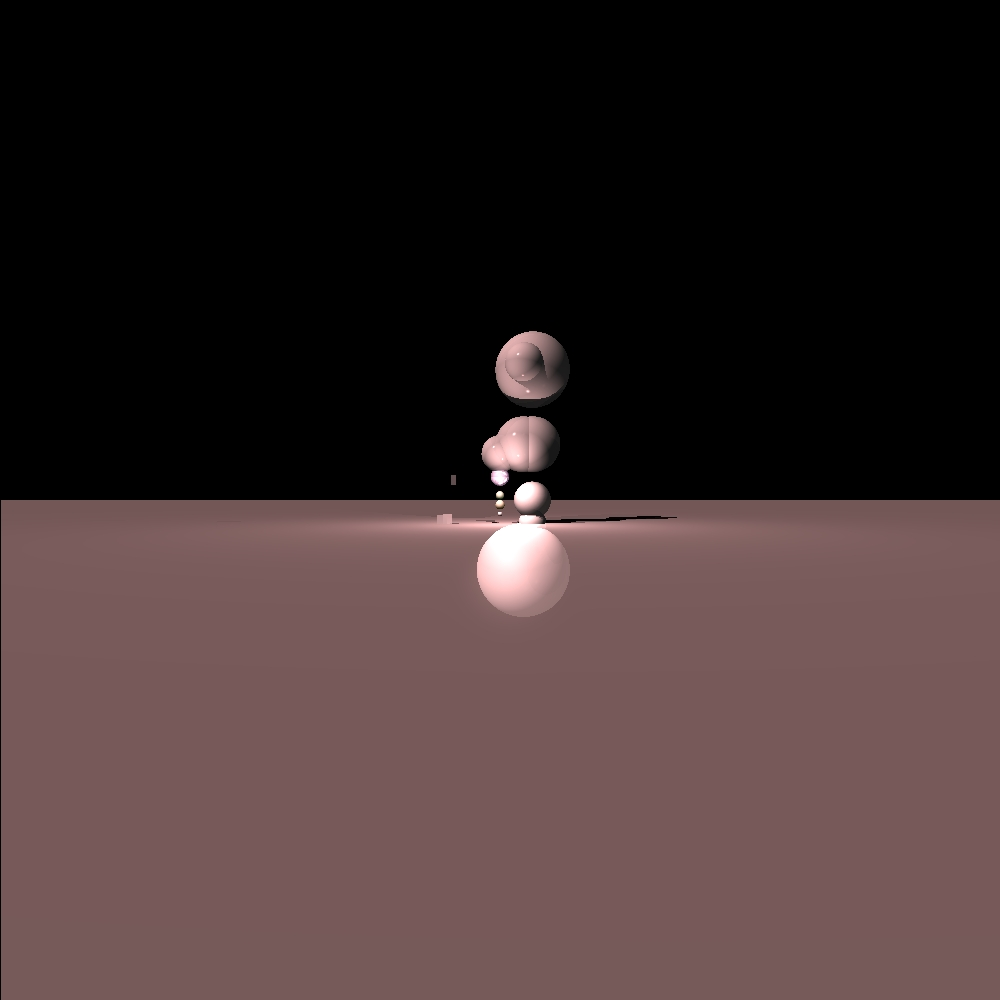
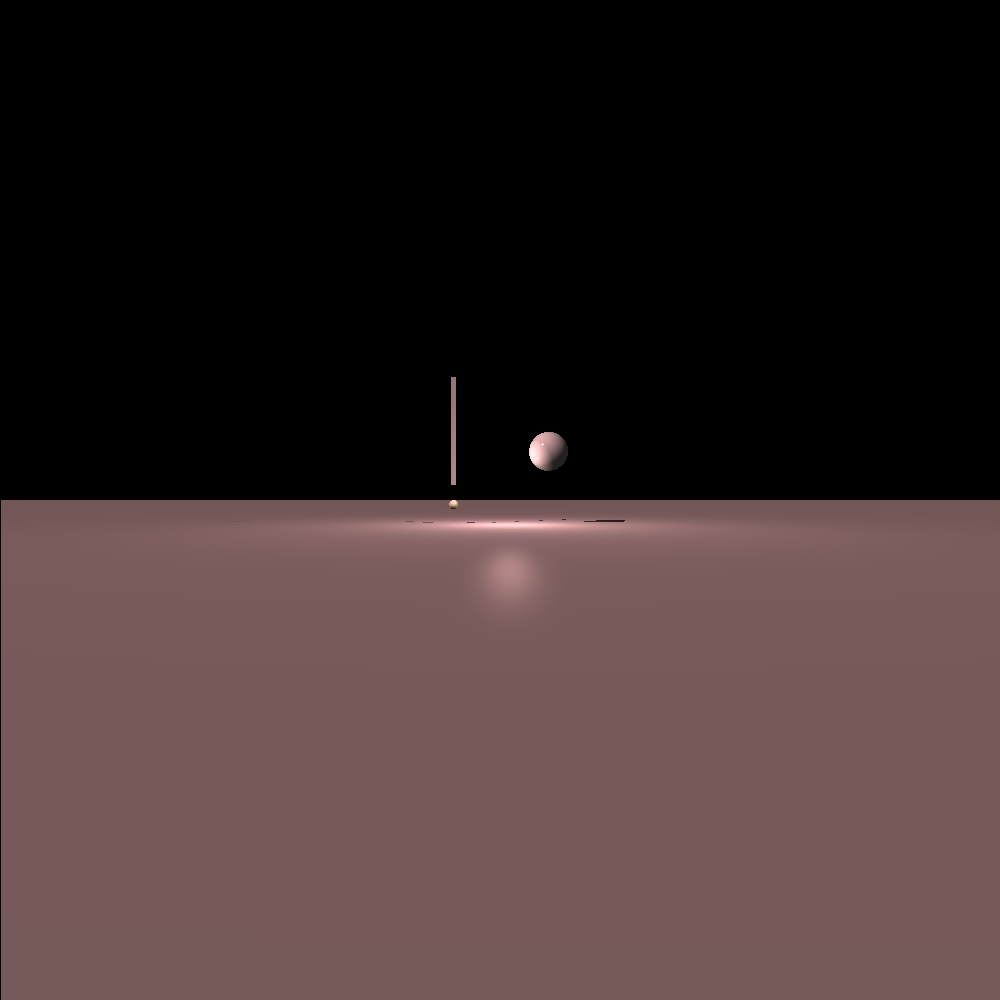
mini project 2 not completed

Changed region(s): [[0.434, 0.31, 0.651, 0.62]]

diff --git a/MavoProject/src/renderer/Render.java b/MavoProject/src/renderer/Render.java
@@ -152,7 +152,19 @@ public class Render {
 		                        (image.getNx(), image.getNy(), pixel.col, pixel.row,
 		                                scene.getDistance(), image.getHeight(), image.getWidth());
 		                //מחזירה את הנקודה הכי קרובה
+		                if( pixel.col== 999 && pixel.row == 999   ) {
+					 		//System.out.println("here ");
+		                	int val = 1;
+		                	System.out.println("threads" + _threads);
+					 	}				 	
+
 		                GeoPoint closestPoint = findClosestIntersection(ray);
+
+//		                if(closestPoint != null) {
+//		                	System.out.print(" pixel.col " + pixel.col);
+//						 	System.out.print(" pixel.row " + pixel.row);
+//						 	System.out.println(" ");
+//		                }
 		                //בודקים אם נמצאה נקודה צובעים בצבע המחושב ואם לא בצבע הרקע
 		                image.writePixel(pixel.col, pixel.row, closestPoint == null ? scene.getBackground().getColor() : calcColor(closestPoint, ray).getColor());
 
@@ -537,9 +549,13 @@ public class Render {
     private GeoPoint findClosestIntersection(Ray ray) {
     	//this is the original function before the boundry 
         //List<GeoPoint> points = scene.getGeometries().findIntersections(ray);
+    	
         List<GeoPoint> points = splitFindIntersection(ray);
+
         if (points == null)
             return null;
+	 	//System.out.print("points" + points.size());
+
         Point3D p0 = ray.get_POO();
         return pointClosestTo(points, p0);
     }
@@ -556,7 +572,7 @@ public class Render {
 	}
     
  // for saving the time of new list creation several times
- 	private List<GeoPoint> intersectionsBVH = new ArrayList<GeoPoint>();
+ 	private Geometries filteredBVHGeometries = new Geometries();
 
  	/**
  	 * travel around the geometries tree whether the ray is inside the box or not
@@ -566,17 +582,20 @@ public class Render {
  	 */
  	public void GeometriesBVH(Geometries geometries, Ray ray) {
  		if(ray == null) return;
- 		if (geometries.boundaryVolume().boundingIntersection(ray)) { //founded point with box
+ 		BoundaryVolume bm = geometries.boundaryVolume();
+ 		boolean hasPoints = bm.boundingIntersection(ray);
+ 		int amount = geometries.getShapes().size();
+ 		if (bm.boundingIntersection(ray) || bm == null) { //founded point with box
  			if (geometries.getAmount() == 1) {
- 				BoundaryVolume boundary = geometries.boundaryVolume();
- 				if (boundary.boundingIntersection(ray) || boundary == null)// if plane
- 					if (geometries.findIntersections(ray) != null)
- 						intersectionsBVH.addAll(geometries.findIntersections(ray));
+ 				BoundaryVolume boundary = geometries.getShapes().get(0).boundaryVolume();
+ 				if (boundary == null || boundary.boundingIntersection(ray))// if plane
+ 					filteredBVHGeometries.add(geometries);
+ 					//if (geometries.findIntersections(ray) != null)
+ 						//intersectionsBVH.addAll(geometries.findIntersections(ray));
  				return;
  			}
  			for (Intersectable geo : geometries.getShapes()) {
  				GeometriesBVH(new Geometries(geo), ray);
- 				return;
  			}
  		} else {
  			return;
@@ -593,10 +612,11 @@ public class Render {
 	 * @return list of geometry points
 	 */
 	public List<GeoPoint> splitFindIntersection(Ray ray) {
+		filteredBVHGeometries =  new Geometries();
 		Geometries geometries = scene.getGeometries();
 		if (_usingBoundaryVolume) {		
 			GeometriesBVH(geometries, ray);
-			return intersectionsBVH;
+			return filteredBVHGeometries.findIntersections(ray);
 		} else {
 			return geometries.findIntersections(ray);
 		}

diff --git a/MavoProject/src/unittests/MiniProject2.java b/MavoProject/src/unittests/MiniProject2.java
@@ -34,6 +34,17 @@ public class MiniProject2 {
 		scene.setBackground(Color.BLACK);
 		Plane plane = new Plane(new Color(0, 0, 0), new Material(0.5, 0.5, 300, 0.8, 0), new Point3D(0, 50, 60),
 				new Vector(0, 1, 0));
+		
+		Polygon chut1 = new Polygon(new Color(20, 20, 20), new Material(0.5, 0.5, 300, 0.2, 0), //
+				new Point3D(-100, -250, 20), new Point3D(-90, -250, 20), new Point3D(-90, -30, 30),
+				new Point3D(-100, -30, 30));
+		
+		Triangle t1=  new Triangle(Color.BLACK, new Material(0.8, 0.2, 300),
+                  new Point3D(-450, 150, 150), new Point3D(-150, 150, 150), new Point3D(-75, -75, 150));
+				Triangle t2 =   new Triangle(Color.BLACK, new Material(0.8, 0.2, 300),
+                  new Point3D(-550, 150, 150), new Point3D(-70, -70, 50), new Point3D(-75, -75, 150));
+		
+		
 		Sphere sphere = new Sphere(new Color(0, 0, 20), new Material(0.5, 0.5, 300, 0.2, 0.5), 20,
 				new Point3D(0, -50, 80));
 		Sphere sphere2 = new Sphere(new Color(0, 20, 0), new Material(0.5, 0.5, 300, 0.2, 0), 9,
@@ -73,9 +84,8 @@ public class MiniProject2 {
 		Triangle triangle1 = new Triangle(new Color(20, 20, 20), new Material(0.5, 0.5, 300, 0.2, 0),//
 				new Point3D(-100, -120, 80) ,new Point3D(0, -200, 80),
 				new Point3D(100, -100, 30));
-//		Polygon polygon1 = new Polygon (new Color(20, 20, 20), new Material(0.5, 0.5, 300, 0.2, 0),//
-//				new Point3D(-100, -50, 20) ,new Point3D(-90, -50, 20),
-//				new Point3D(-100, -30, 20), new Point3D(-90, -30, 20));
+		
+		
 		Polygon polygon1 = new Polygon(new Color(20, 20, 20), new Material(0.5, 0.5, 300, 0.2, 0), //
 				new Point3D(-100, -50, 20), new Point3D(-90, -50, 20), new Point3D(-90, -30, 30),
 				new Point3D(-100, -30, 30));
@@ -114,28 +124,43 @@ public class MiniProject2 {
 //		scene.addIntersectable(
 //				triangle1,geo1,geo2,geo3,geo4,geo5 ,plane);
 
+		
+		Geometries geo32 =new Geometries(plane,chut1);
+				
+		Geometries geo33 = new Geometries(/*t1,t2,*/sphere26, sphere18);
 		scene.addIntersectable(
-				plane,
-				sphere,
-				sphere2,
-				sphere3,
-				sphere4,
-				sphere5 ,
-				sphere6,
-				sphere7,
-				sphere9,
-				sphere10,
-				sphere11,
-				sphere12,
-				sphere13,
-//				sphere14,
-//				sphere15,
-				sphere16,
-				polygon1, polygon2,polygon3
+				geo33,
+				plane, geo32//,t1,t2
+//				sphere,
+//				sphere2,
+//				sphere3,
+//				sphere4,
+//				sphere5 ,
+//				sphere6,
+//				sphere7,
+//				sphere9,
+//				sphere10,
+//				sphere11,
+//				sphere12,
+//				sphere13,
+////				sphere14,
+////				sphere15,
+//				sphere16,
+//				polygon1, polygon2,polygon3
+//				,sphere21
+//				,sphere19
+//				,sphere20
+//				,sphere22
+//				,sphere23
+//				,sphere24
+//				,sphere25
+//				,sphere26
+//				,sphere17
+//				,sphere18
 				//sphere8
 				/*,,,,,,,
-				,,,,sphere21,sphere17,sphere18
-				,sphere19,sphere20,sphere22,sphere23,sphere24,sphere25,sphere26,
+				,,,,,,
+				,,,,,,,,
 				,,
 				,, , ,*/ );
 		
@@ -151,10 +176,11 @@ public class MiniProject2 {
 		lights.add(directional_light);
 		scene.setLights(lights);
 		Render render = new Render(imageWriter, scene)
-				.setMultithreading(2)
-				.setSampleCount(1)
-				.setDebugPrint().setDebugPrint();
-				//.setUsingBoundaryVolume(true);
+				//.setMultithreading(2)
+				//.setSampleCount(1)
+				//.setDebugPrint()
+				.setUsingBoundaryVolume(true)
+				;
 		render.renderImage();
 		render.writeToImage();
 	}

diff --git a/MavoProject/src/geometries/BoundaryVolume.java b/MavoProject/src/geometries/BoundaryVolume.java
@@ -2,30 +2,15 @@ package geometries;
 
 import static primitives.Util.alignZero;
 
-import java.util.ArrayList;
-import java.util.Arrays;
-import java.util.List;
+
 import java.lang.Math;
-import geometries.Intersectable.GeoPoint;
 import primitives.Point3D;
 import primitives.Ray;
-import primitives.Vector;
 
 public class BoundaryVolume {
 
 	public Point3D min;
 	public Point3D max;
-	public Geometries childs;
-	private Boolean FinalBoundary; 
-	public BoundaryVolume(Point3D point3d,  Geometries geometries) {
-		// TODO Auto-generated constructor stub
-	}
-	public BoundaryVolume(Point3D _min, Point3D _max, Geometries _childs) {
-		this.min = _min;
-		this.max = _max;
-		this.childs = _childs;
-		// TODO Auto-generated constructor stub
-	}
 	public BoundaryVolume(Point3D _min, Point3D _max) {
 		this.min = _min;
 		this.max = _max;
@@ -35,10 +20,9 @@ public class BoundaryVolume {
 	public boolean boundingIntersection(Ray ray) {
 			
 	    Point3D po = ray.get_POO();    
-	        
-		double dirfra_x = ray.get_direction().get_head().get_x().get();
-		double dirfra_y = ray.get_direction().get_head().get_y().get();
-		double dirfra_z = ray.get_direction().get_head().get_z().get();
+		double dirfra_x =  1.0f / ray.get_direction().get_head().get_x().get();
+		double dirfra_y =  1.0f / ray.get_direction().get_head().get_y().get();
+		double dirfra_z =  1.0f / ray.get_direction().get_head().get_z().get();
 
 
 		// lb is the corner of AABB with minimal coordinates - left bottom, rt is maximal corner

diff --git a/MavoProject/src/geometries/Geometries.java b/MavoProject/src/geometries/Geometries.java
@@ -112,7 +112,17 @@ public class Geometries implements Intersectable {
     	
     	for(Intersectable shape : _geometries)
     	{
-    		if(!(shape instanceof Plane)) {
+    		if((shape instanceof Plane)){
+    			minX = Double.NEGATIVE_INFINITY;
+    			minY=Double.NEGATIVE_INFINITY;
+    			minZ=Double.NEGATIVE_INFINITY;
+    			maxX = Double.POSITIVE_INFINITY;
+    			maxY=Double.POSITIVE_INFINITY;
+    			maxZ=Double.POSITIVE_INFINITY;
+    			 
+    			 
+    		}
+    		else {
     		boundary = shape.boundaryVolume();
     		x = boundary.min.get_x().get();
     		y = boundary.min.get_y().get();
@@ -129,7 +139,7 @@ public class Geometries implements Intersectable {
     	}
     	
         return new BoundaryVolume(new Point3D(minX,minY,minZ),//
-        		new Point3D(maxX,maxY,maxZ),new Geometries(this));
+        		new Point3D(maxX,maxY,maxZ));
     	
 
 }

diff --git a/MavoProject/src/geometries/Polygon.java b/MavoProject/src/geometries/Polygon.java
@@ -182,6 +182,6 @@ public class Polygon extends Geometry {
     	}
     	
     	return new BoundaryVolume(new Point3D(minX,minY,minZ)//
-    			,new Point3D(maxX,maxY,maxZ),new Geometries(this));
+    			,new Point3D(maxX,maxY,maxZ));
     }
 }
